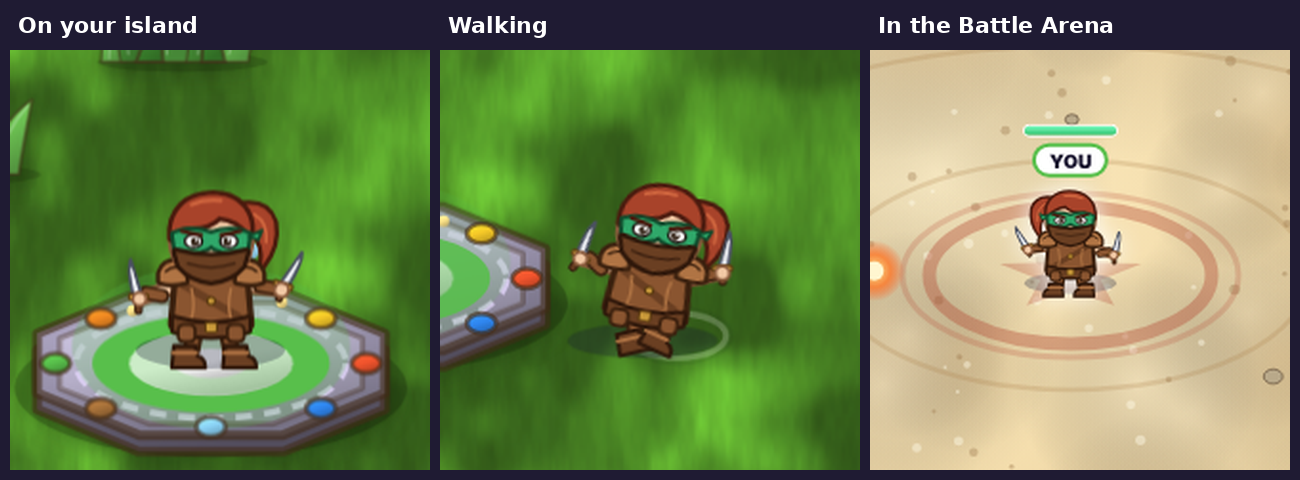
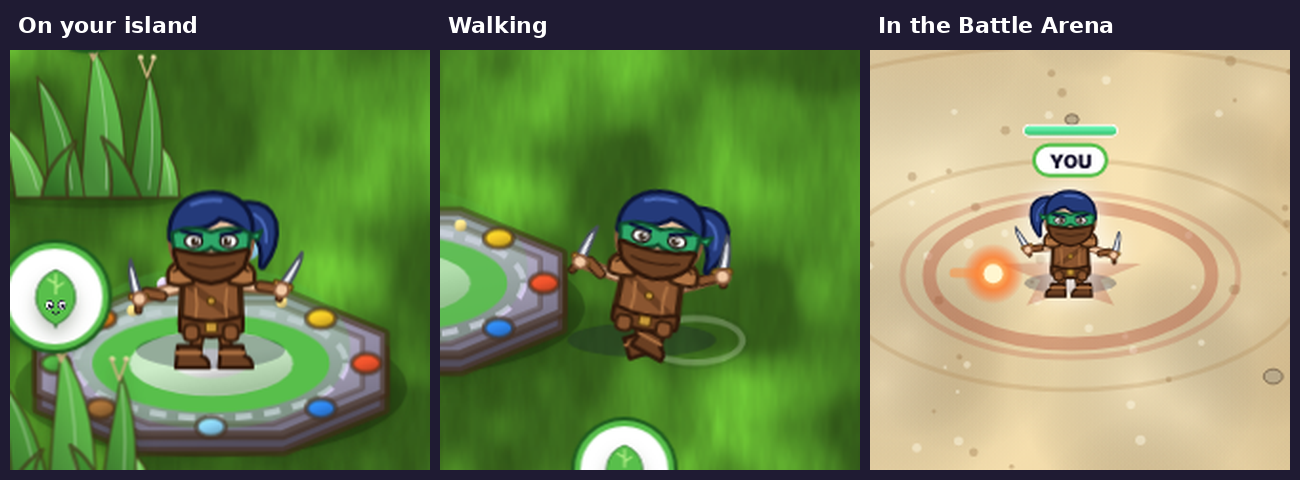
Preview: rogue slimmer with dark blue hair
Claude-Session: https://claude.ai/code/session_01VLdLc5ictpYJybhtPWKJ3B

diff --git a/src/previews/rogue.js b/src/previews/rogue.js
@@ -1,6 +1,6 @@
 /* Masked rogue (no name yet): an original human girl in full leather armour, with a green eye mask, a brown bandana over her
-   nose and mouth, an auburn ponytail, and a dagger in each hand (melee). (preview only) */
-var ROGUE = { S: '#f2c9a5', SD: '#8a5a3c', H: '#a8432a', HD: '#4a1a0e', HL: '#d0663f', L: '#8a5530', LD: '#3a200e', LL: '#b07444', M: '#2fa86a', MD: '#0f4a2c', B: '#6a3f22', BD: '#2e170a', ST: '#d9dde6', STD: '#4a5060' };
+   nose and mouth, a dark blue ponytail, and a dagger in each hand (melee). (preview only) */
+var ROGUE = { S: '#f2c9a5', SD: '#8a5a3c', H: '#243a7a', HD: '#0c1538', HL: '#4a68b8', L: '#8a5530', LD: '#3a200e', LL: '#b07444', M: '#2fa86a', MD: '#0f4a2c', B: '#6a3f22', BD: '#2e170a', ST: '#d9dde6', STD: '#4a5060' };
 function rogueKnife(x, y, m){      /* a short dagger held point-up; m = 1 blade leaning right, -1 left */
   var R = ROGUE; function X(v){ return x + v * m; }
   return '<path d="M' + X(-1.6) + ' ' + (y - 3) + 'L' + X(4) + ' ' + (y - 21) + 'Q' + X(6) + ' ' + (y - 16) + ' ' + X(2.6) + ' ' + (y - 2) + 'Z" fill="' + R.ST + '" stroke="' + R.STD + '" stroke-width="1.6" stroke-linejoin="round"/>' +
@@ -15,16 +15,16 @@ function rogueArt(){
     outlined('<path d="M62 22Q78 18 82 30Q84 42 76 52Q78 40 70 34Z"/>', R.H, R.HD, 2.2) +
     '<path d="M72 26Q79 30 78 40" fill="none" stroke="' + R.HL + '" stroke-width="1.6" stroke-linecap="round"/>' +
     /* leather cuirass with a strap, shoulder pads and a belt with pouches */
-    outlined('<path d="M33 60Q50 54 67 60L69 82Q50 88 31 82Z"/>', R.L, R.LD) +
-    '<path d="M36 62L64 78" stroke="' + R.B + '" stroke-width="4" stroke-linecap="round"/><circle cx="50" cy="70" r="2" fill="#c99a3a" stroke="#5a3a10" stroke-width="1"/>' +
-    '<path d="M40 64Q42 72 40 79M60 64Q58 72 60 79" fill="none" stroke="' + R.LL + '" stroke-width="1.4" stroke-linecap="round"/>' +
-    outlined('<path d="M31 79Q50 85 69 79L69 85Q50 91 31 85Z"/>', R.B, R.BD, 2) +
+    outlined('<path d="M37 60Q50 55 63 60L64 82Q50 87 36 82Z"/>', R.L, R.LD) +
+    '<path d="M39 62L61 78" stroke="' + R.B + '" stroke-width="4" stroke-linecap="round"/><circle cx="50" cy="70" r="2" fill="#c99a3a" stroke="#5a3a10" stroke-width="1"/>' +
+    '<path d="M42 64Q43.5 72 42 79M58 64Q56.5 72 58 79" fill="none" stroke="' + R.LL + '" stroke-width="1.4" stroke-linecap="round"/>' +
+    outlined('<path d="M35 79Q50 84 65 79L65 85Q50 90 35 85Z"/>', R.B, R.BD, 2) +
     '<rect x="47" y="81" width="6" height="5" rx="1.2" fill="#c99a3a" stroke="#5a3a10" stroke-width="1.1"/>' +
-    outlined('<rect x="34" y="83" width="7" height="7" rx="2"/><rect x="59" y="83" width="7" height="7" rx="2"/>', R.L, R.LD, 1.6) +
-    outlined('<path d="M24 56Q26 49 36 50L37 60Q29 62 24 60Z"/><path d="M76 56Q74 49 64 50L63 60Q71 62 76 60Z"/>', R.LL, R.LD, 2.2) +
-    '<path d="M27 55Q30 52 34 53M73 55Q70 52 66 53" fill="none" stroke="' + R.LD + '" stroke-width="1.3" stroke-linecap="round"/>' +
+    outlined('<rect x="37" y="83" width="6" height="6.5" rx="2"/><rect x="57" y="83" width="6" height="6.5" rx="2"/>', R.L, R.LD, 1.6) +
+    outlined('<path d="M29 56Q31 50 39 51L40 60Q33 62 29 60Z"/><path d="M71 56Q69 50 61 51L60 60Q67 62 71 60Z"/>', R.LL, R.LD, 2.2) +
+    '<path d="M31 55Q34 52.5 37.5 53.5M69 55Q66 52.5 62.5 53.5" fill="none" stroke="' + R.LD + '" stroke-width="1.3" stroke-linecap="round"/>' +
     /* neck and head */
-    '<rect x="45" y="52" width="10" height="8" fill="' + R.S + '" stroke="' + R.SD + '" stroke-width="1.6"/>' +
+    '<rect x="46" y="52" width="8" height="8" fill="' + R.S + '" stroke="' + R.SD + '" stroke-width="1.6"/>' +
     outlined('<path d="M50 20C62 20 69 29 69 39C69 49 62 57 50 57C38 57 31 49 31 39C31 29 38 20 50 20Z"/>', R.S, R.SD) +
     /* auburn hair: a fringe swept to one side */
     outlined('<path d="M30 38C29 24 38 16 51 16C63 16 71 24 70 36Q64 28 54 27Q48 33 38 32Q33 33 30 38Z"/>', R.H, R.HD, 2.4) +
@@ -42,21 +42,21 @@ function rogueArt(){
 function rogueBack(c){
   var R = ROGUE;
   function leg(cls, x1, x2, fx){
-    return '<g class="lg ' + cls + '"><path d="M' + x1 + ' 84L' + x2 + ' 95" stroke="' + R.LD + '" stroke-width="9" stroke-linecap="round"/>' +
-      '<path d="M' + x1 + ' 84L' + x2 + ' 95" stroke="' + R.L + '" stroke-width="5" stroke-linecap="round"/>' +
+    return '<g class="lg ' + cls + '"><path d="M' + x1 + ' 84L' + x2 + ' 95" stroke="' + R.LD + '" stroke-width="7" stroke-linecap="round"/>' +
+      '<path d="M' + x1 + ' 84L' + x2 + ' 95" stroke="' + R.L + '" stroke-width="3.6" stroke-linecap="round"/>' +
       '<path d="M' + (fx - 7) + ' 104L' + (fx - 6) + ' 93H' + (fx + 5) + 'L' + (fx + 6) + ' 98Q' + (fx + 10) + ' 99 ' + (fx + 10) + ' 104Z" fill="' + R.B + '" stroke="' + R.BD + '" stroke-width="2" stroke-linejoin="round"/>' +
       '<path d="M' + (fx - 6.5) + ' 96.5H' + (fx + 5.5) + '" stroke="' + R.LL + '" stroke-width="1.8" stroke-linecap="round"/></g>';
   }
   function arm(x1, y1, x2, y2){
-    return '<path d="M' + x1 + ' ' + y1 + 'L' + x2 + ' ' + y2 + '" stroke="' + R.SD + '" stroke-width="8" stroke-linecap="round"/>' +
-      '<path d="M' + x1 + ' ' + y1 + 'L' + x2 + ' ' + y2 + '" stroke="' + R.S + '" stroke-width="4.6" stroke-linecap="round"/>';
+    return '<path d="M' + x1 + ' ' + y1 + 'L' + x2 + ' ' + y2 + '" stroke="' + R.SD + '" stroke-width="6.4" stroke-linecap="round"/>' +
+      '<path d="M' + x1 + ' ' + y1 + 'L' + x2 + ' ' + y2 + '" stroke="' + R.S + '" stroke-width="3.4" stroke-linecap="round"/>';
   }
   /* leather bracer and a dagger in the back hand */
-  var hand = '<path d="M17 66L25 67.5" stroke="' + R.LD + '" stroke-width="7.4" stroke-linecap="round"/><path d="M17 66L25 67.5" stroke="' + R.L + '" stroke-width="4.6" stroke-linecap="round"/>' +
+  var hand = '<path d="M17 66L25 67.5" stroke="' + R.LD + '" stroke-width="6" stroke-linecap="round"/><path d="M17 66L25 67.5" stroke="' + R.L + '" stroke-width="3.6" stroke-linecap="round"/>' +
     rogueKnife(13, 70, -1) + '<circle cx="13.5" cy="69" r="3.4" fill="' + R.S + '" stroke="' + R.SD + '" stroke-width="1.5"/>';
-  return '<svg class="limbs" viewBox="0 0 100 100" aria-hidden="true" style="overflow:visible">' + leg('lgL', 42, 40, 37) + leg('lgR', 58, 60, 63) +
-    '<g><g class="pump pL">' + arm(34, 62, 16, 68) + hand + '</g></g>' +
-    '<g><g class="pump pR">' + arm(66, 62, 84, 64) + '<path d="M75 62.5L82 63.5" stroke="' + R.LD + '" stroke-width="7.4" stroke-linecap="round"/><path d="M75 62.5L82 63.5" stroke="' + R.L + '" stroke-width="4.6" stroke-linecap="round"/></g></g></svg>';
+  return '<svg class="limbs" viewBox="0 0 100 100" aria-hidden="true" style="overflow:visible">' + leg('lgL', 44, 42, 39) + leg('lgR', 56, 58, 61) +
+    '<g><g class="pump pL">' + arm(37, 62, 17, 68) + hand + '</g></g>' +
+    '<g><g class="pump pR">' + arm(63, 62, 84, 64) + '<path d="M75 62.5L82 63.5" stroke="' + R.LD + '" stroke-width="6" stroke-linecap="round"/><path d="M75 62.5L82 63.5" stroke="' + R.L + '" stroke-width="3.6" stroke-linecap="round"/></g></g></svg>';
 }
 function rogueFront(c){
   /* the front dagger sits in the weapon group so it slashes when she attacks */

diff --git a/HANDOFF.md b/HANDOFF.md
@@ -15,7 +15,7 @@ Portal Pals is a single-file browser game: build an island, pick pals, play mini
 | `src/i18n/` | Serbian translation. `sr2.py` = exact strings, `sr3.py` = templates (`§` = any text, `§1`/`§2` numbered). `build.py` injects the dictionary into the game file. |
 | `src/mkx.py` | Builds the test pages in `src/mock2/` (adds `window.__df`, `__th`, `__st`, … hooks). |
 | `src/mock2/` | Playwright test harness with a mock Firebase (`server.js` simulates Firestore rules, `rt.js` the Realtime Database). `t*.js` are tests. |
-| `src/previews/` | Drawings for special pals. Sir Rattlebones, Talon (eagle) and the undead dragon are **now in the game** as the Skeleton Knight, Sky Eagle and Grave Dragon looks (see Special pals); Puddle is still **not added**; the robot (`mecha.js`) is now in the game as the Wheel Bot. Now in the game as the Iron Cyclops: an original one-eyed soldier in black and gold (`cyclops.js`, `cyclops_preview.png`: all-black full helmet (no gold on it), one big blue eye in a round opening, black mouth grille, black plate armour with gold trim, gauntlet fists; Undead, melee, Giant). The owner's own drawing of a giant eyeball on a black-and-gold body was declined as an Eye-Brawl (Skylanders) look-alike, and so was a hooded/eye-only version; the helmet keeps it distinct. Also previewed, not added: a masked human rogue girl (`rogue.js`, `rogue_preview.png`: auburn ponytail, green eye mask, brown bandana over nose and mouth, full brown leather armour, a dagger in each hand; melee, element not chosen yet). The owner's green-elf ninja drawings were declined as Stealth Elf (Skylanders) look-alikes; the human version replaces them. To preview a drawing in game: insert its file before `var PAL_BODIES = {` in a temporary copy, add an entry, build the mock pages, and screenshot (see how the eagle/robot previews were made). Originally: Sir Rattlebones (skeleton knight, Undead, melee) and Puddle (chubby purple baby dragon with gold horns and teal wings, Magic, ranged), and Talon (placeholder name; the owner's own drawing of a blue eagle with an arm cannon, Air, ranged, with a 3-feather crest and glowing cannon core added; the cannon replaces the wand as his weapon). Also an unnamed slim undead purple dragon designed here (dark swept-back horns, bone ridge spikes, round snout, glowing cyan eyes, torn wings with holes, bony tail with a ghost flame, throws a ghost flame; Undead, ranged). The owner's own purple dragon drawing was declined as a Cynder look-alike, so this one was designed from scratch; an earlier cloud/storm version was dropped at the owner's request. The drawing functions are in `knight.js` / `dragon.js` / `eagle.js` / `wyrm.js`; `eagle_preview.png` / `wyrm_preview.png` show them in game. |
+| `src/previews/` | Drawings for special pals. Sir Rattlebones, Talon (eagle) and the undead dragon are **now in the game** as the Skeleton Knight, Sky Eagle and Grave Dragon looks (see Special pals); Puddle is still **not added**; the robot (`mecha.js`) is now in the game as the Wheel Bot. Now in the game as the Iron Cyclops: an original one-eyed soldier in black and gold (`cyclops.js`, `cyclops_preview.png`: all-black full helmet (no gold on it), one big blue eye in a round opening, black mouth grille, black plate armour with gold trim, gauntlet fists; Undead, melee, Giant). The owner's own drawing of a giant eyeball on a black-and-gold body was declined as an Eye-Brawl (Skylanders) look-alike, and so was a hooded/eye-only version; the helmet keeps it distinct. Also previewed, not added: a slim masked human rogue girl (`rogue.js`, `rogue_preview.png`: dark blue ponytail, green eye mask, brown bandana over nose and mouth, full brown leather armour, a dagger in each hand; melee, element not chosen yet). The owner's green-elf ninja drawings were declined as Stealth Elf (Skylanders) look-alikes; the human version replaces them. To preview a drawing in game: insert its file before `var PAL_BODIES = {` in a temporary copy, add an entry, build the mock pages, and screenshot (see how the eagle/robot previews were made). Originally: Sir Rattlebones (skeleton knight, Undead, melee) and Puddle (chubby purple baby dragon with gold horns and teal wings, Magic, ranged), and Talon (placeholder name; the owner's own drawing of a blue eagle with an arm cannon, Air, ranged, with a 3-feather crest and glowing cannon core added; the cannon replaces the wand as his weapon). Also an unnamed slim undead purple dragon designed here (dark swept-back horns, bone ridge spikes, round snout, glowing cyan eyes, torn wings with holes, bony tail with a ghost flame, throws a ghost flame; Undead, ranged). The owner's own purple dragon drawing was declined as a Cynder look-alike, so this one was designed from scratch; an earlier cloud/storm version was dropped at the owner's request. The drawing functions are in `knight.js` / `dragon.js` / `eagle.js` / `wyrm.js`; `eagle_preview.png` / `wyrm_preview.png` show them in game. |
 
 Test version (claude.ai artifact, owner's private test page): https://claude.ai/artifact/8Lgy5MWmdkUGTQynb3C2G2. Publish `src/portal-pals-play.html` to that URL after each change.
 
